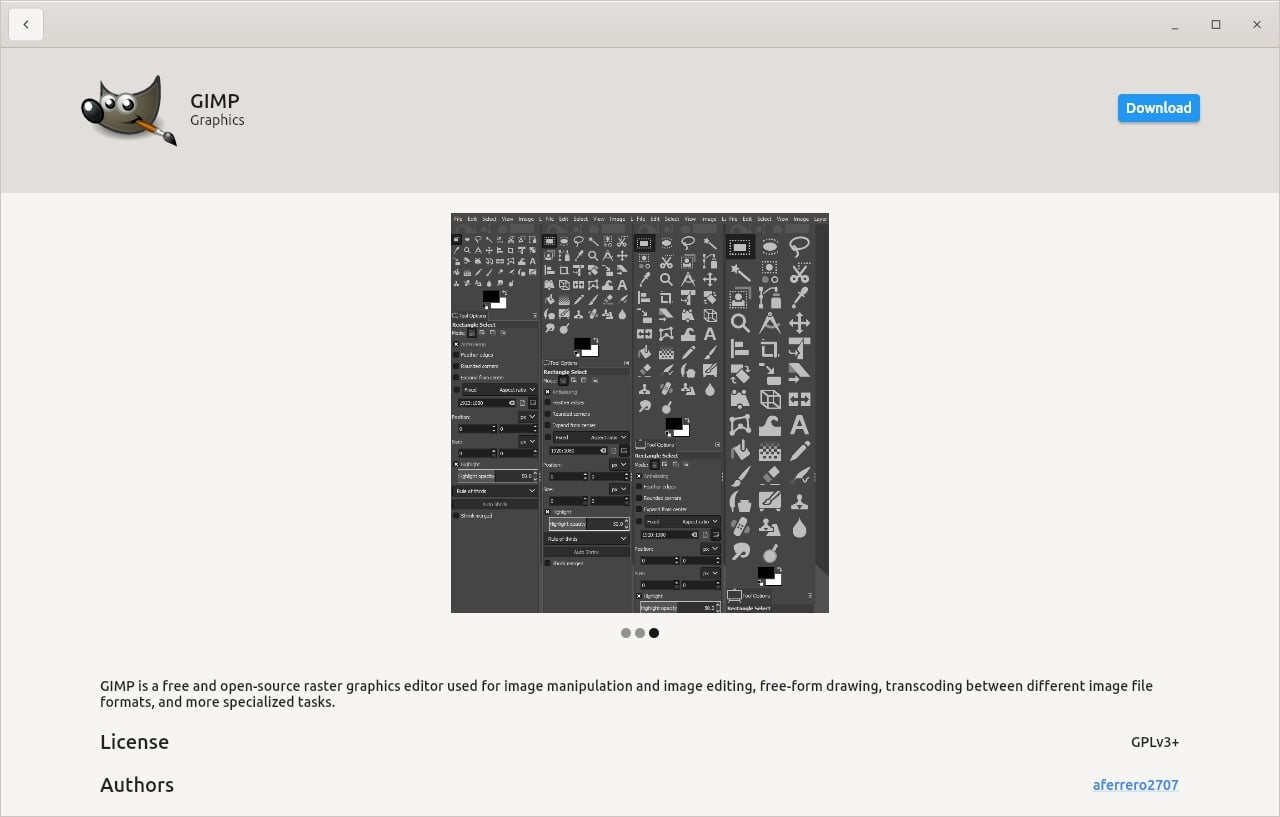
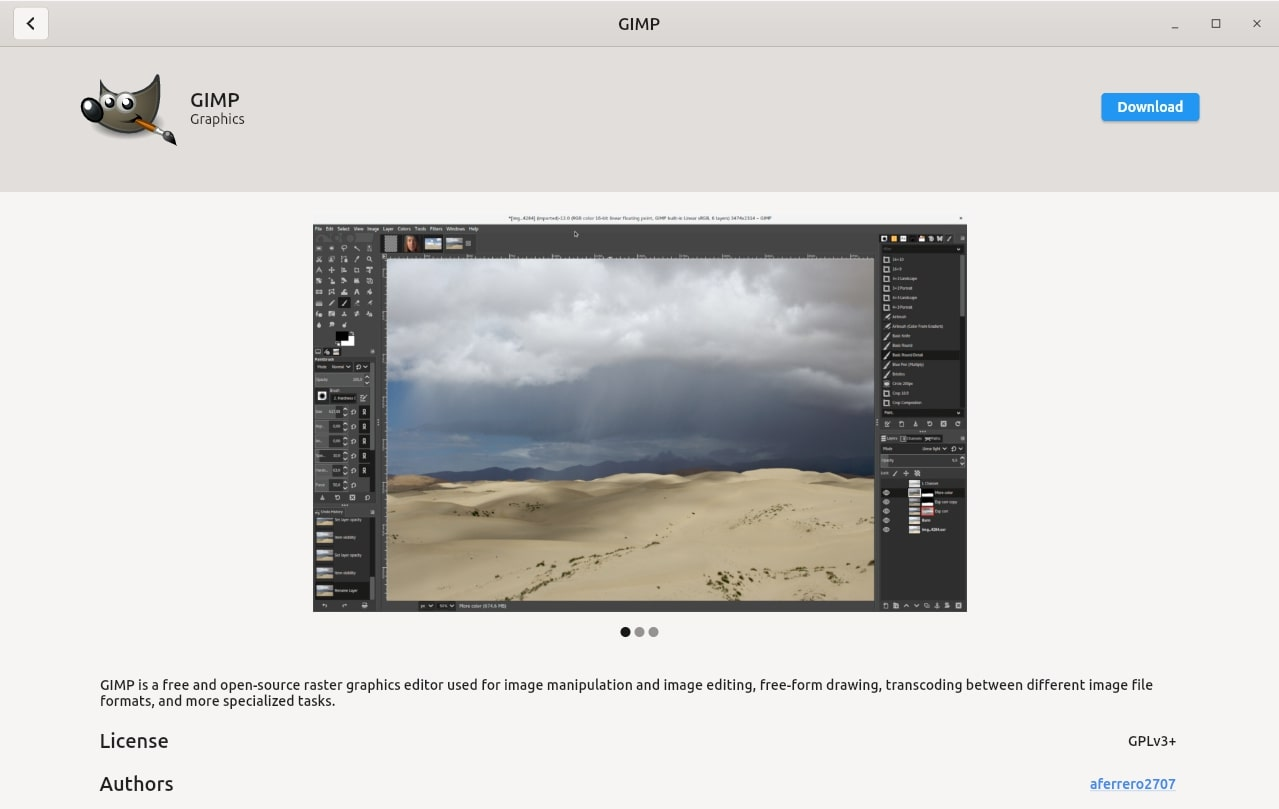
Replace positons of search and switch theme button, fix double tap not maximising/restoring window, update screenshots

diff --git a/lib/main.dart b/lib/main.dart
@@ -186,24 +186,20 @@ class _HomePageState extends State<HomePage> {
                   ? [
                       Container(
                         padding: const EdgeInsets.only(right: 4),
-                        width: context.width >= 640 ? 242 : null,
+                        width: context.width >= 640 ? 241 : null,
                         child: Row(
                             mainAxisAlignment: MainAxisAlignment.spaceBetween,
                             children: [
                               CustomAdwaitaHeaderButton(
-                                color: toggleSearch.value
-                                    ? context.isDark
-                                        ? AdwaitaDarkColors
-                                            .headerSwitcherTabBackground
-                                        : AdwaitaLightColors
-                                            .headerSwitcherTabBackground
-                                    : null,
                                 child: IconButton(
-                                  icon: const AdwaitaIcon(
-                                    AdwaitaIcons.system_search,
-                                    size: 17,
-                                  ),
-                                  onPressed: switchSearchBar,
+                                  icon: AdwaitaIcon(context.isDark
+                                      ? AdwaitaIcons.night_light
+                                      : AdwaitaIcons.night_light_disabled),
+                                  onPressed: () => {
+                                    widget.theme.value = context.isDark
+                                        ? ThemeMode.light
+                                        : ThemeMode.dark
+                                  },
                                 ),
                               ),
                               GestureDetector(
@@ -278,20 +274,21 @@ class _HomePageState extends State<HomePage> {
                     ]
                   : [],
               trailing: [
-                Hero(
-                  tag: 'theme-switch',
-                  child: CustomAdwaitaHeaderButton(
+                if (categories != null || featured != null)
+                  CustomAdwaitaHeaderButton(
+                    color: toggleSearch.value
+                        ? context.isDark
+                            ? AdwaitaDarkColors.headerSwitcherTabBackground
+                            : AdwaitaLightColors.headerSwitcherTabBackground
+                        : null,
                     child: IconButton(
-                      icon: AdwaitaIcon(context.isDark
-                          ? AdwaitaIcons.night_light
-                          : AdwaitaIcons.night_light_disabled),
-                      onPressed: () => {
-                        widget.theme.value =
-                            context.isDark ? ThemeMode.light : ThemeMode.dark
-                      },
+                      icon: const AdwaitaIcon(
+                        AdwaitaIcons.system_search,
+                        size: 17,
+                      ),
+                      onPressed: switchSearchBar,
                     ),
                   ),
-                ),
                 if (listDownloads.isNotEmpty)
                   downloadButton(context, listDownloads, downloading),
               ],

diff --git a/lib/widgets/aibappbar.dart b/lib/widgets/aibappbar.dart
@@ -23,6 +23,7 @@ Widget aibAppBar(
         GestureDetector(
           behavior: HitTestBehavior.translucent,
           onPanStart: (_) => appWindow.startDragging(),
+          onDoubleTap: () => appWindow.maximizeOrRestore(),
           child: AdwaitaHeaderBar(
             onClose: appWindow.close,
             onMinimize: appWindow.minimize,

diff --git a/linux/flutter/generated_plugin_registrant.cc b/linux/flutter/generated_plugin_registrant.cc
@@ -2,6 +2,8 @@
 //  Generated file. Do not edit.
 //
 
+// clang-format off
+
 #include "generated_plugin_registrant.h"
 
 #include <bitsdojo_window_linux/bitsdojo_window_plugin.h>

diff --git a/linux/flutter/generated_plugin_registrant.h b/linux/flutter/generated_plugin_registrant.h
@@ -2,6 +2,8 @@
 //  Generated file. Do not edit.
 //
 
+// clang-format off
+
 #ifndef GENERATED_PLUGIN_REGISTRANT_
 #define GENERATED_PLUGIN_REGISTRANT_
 
